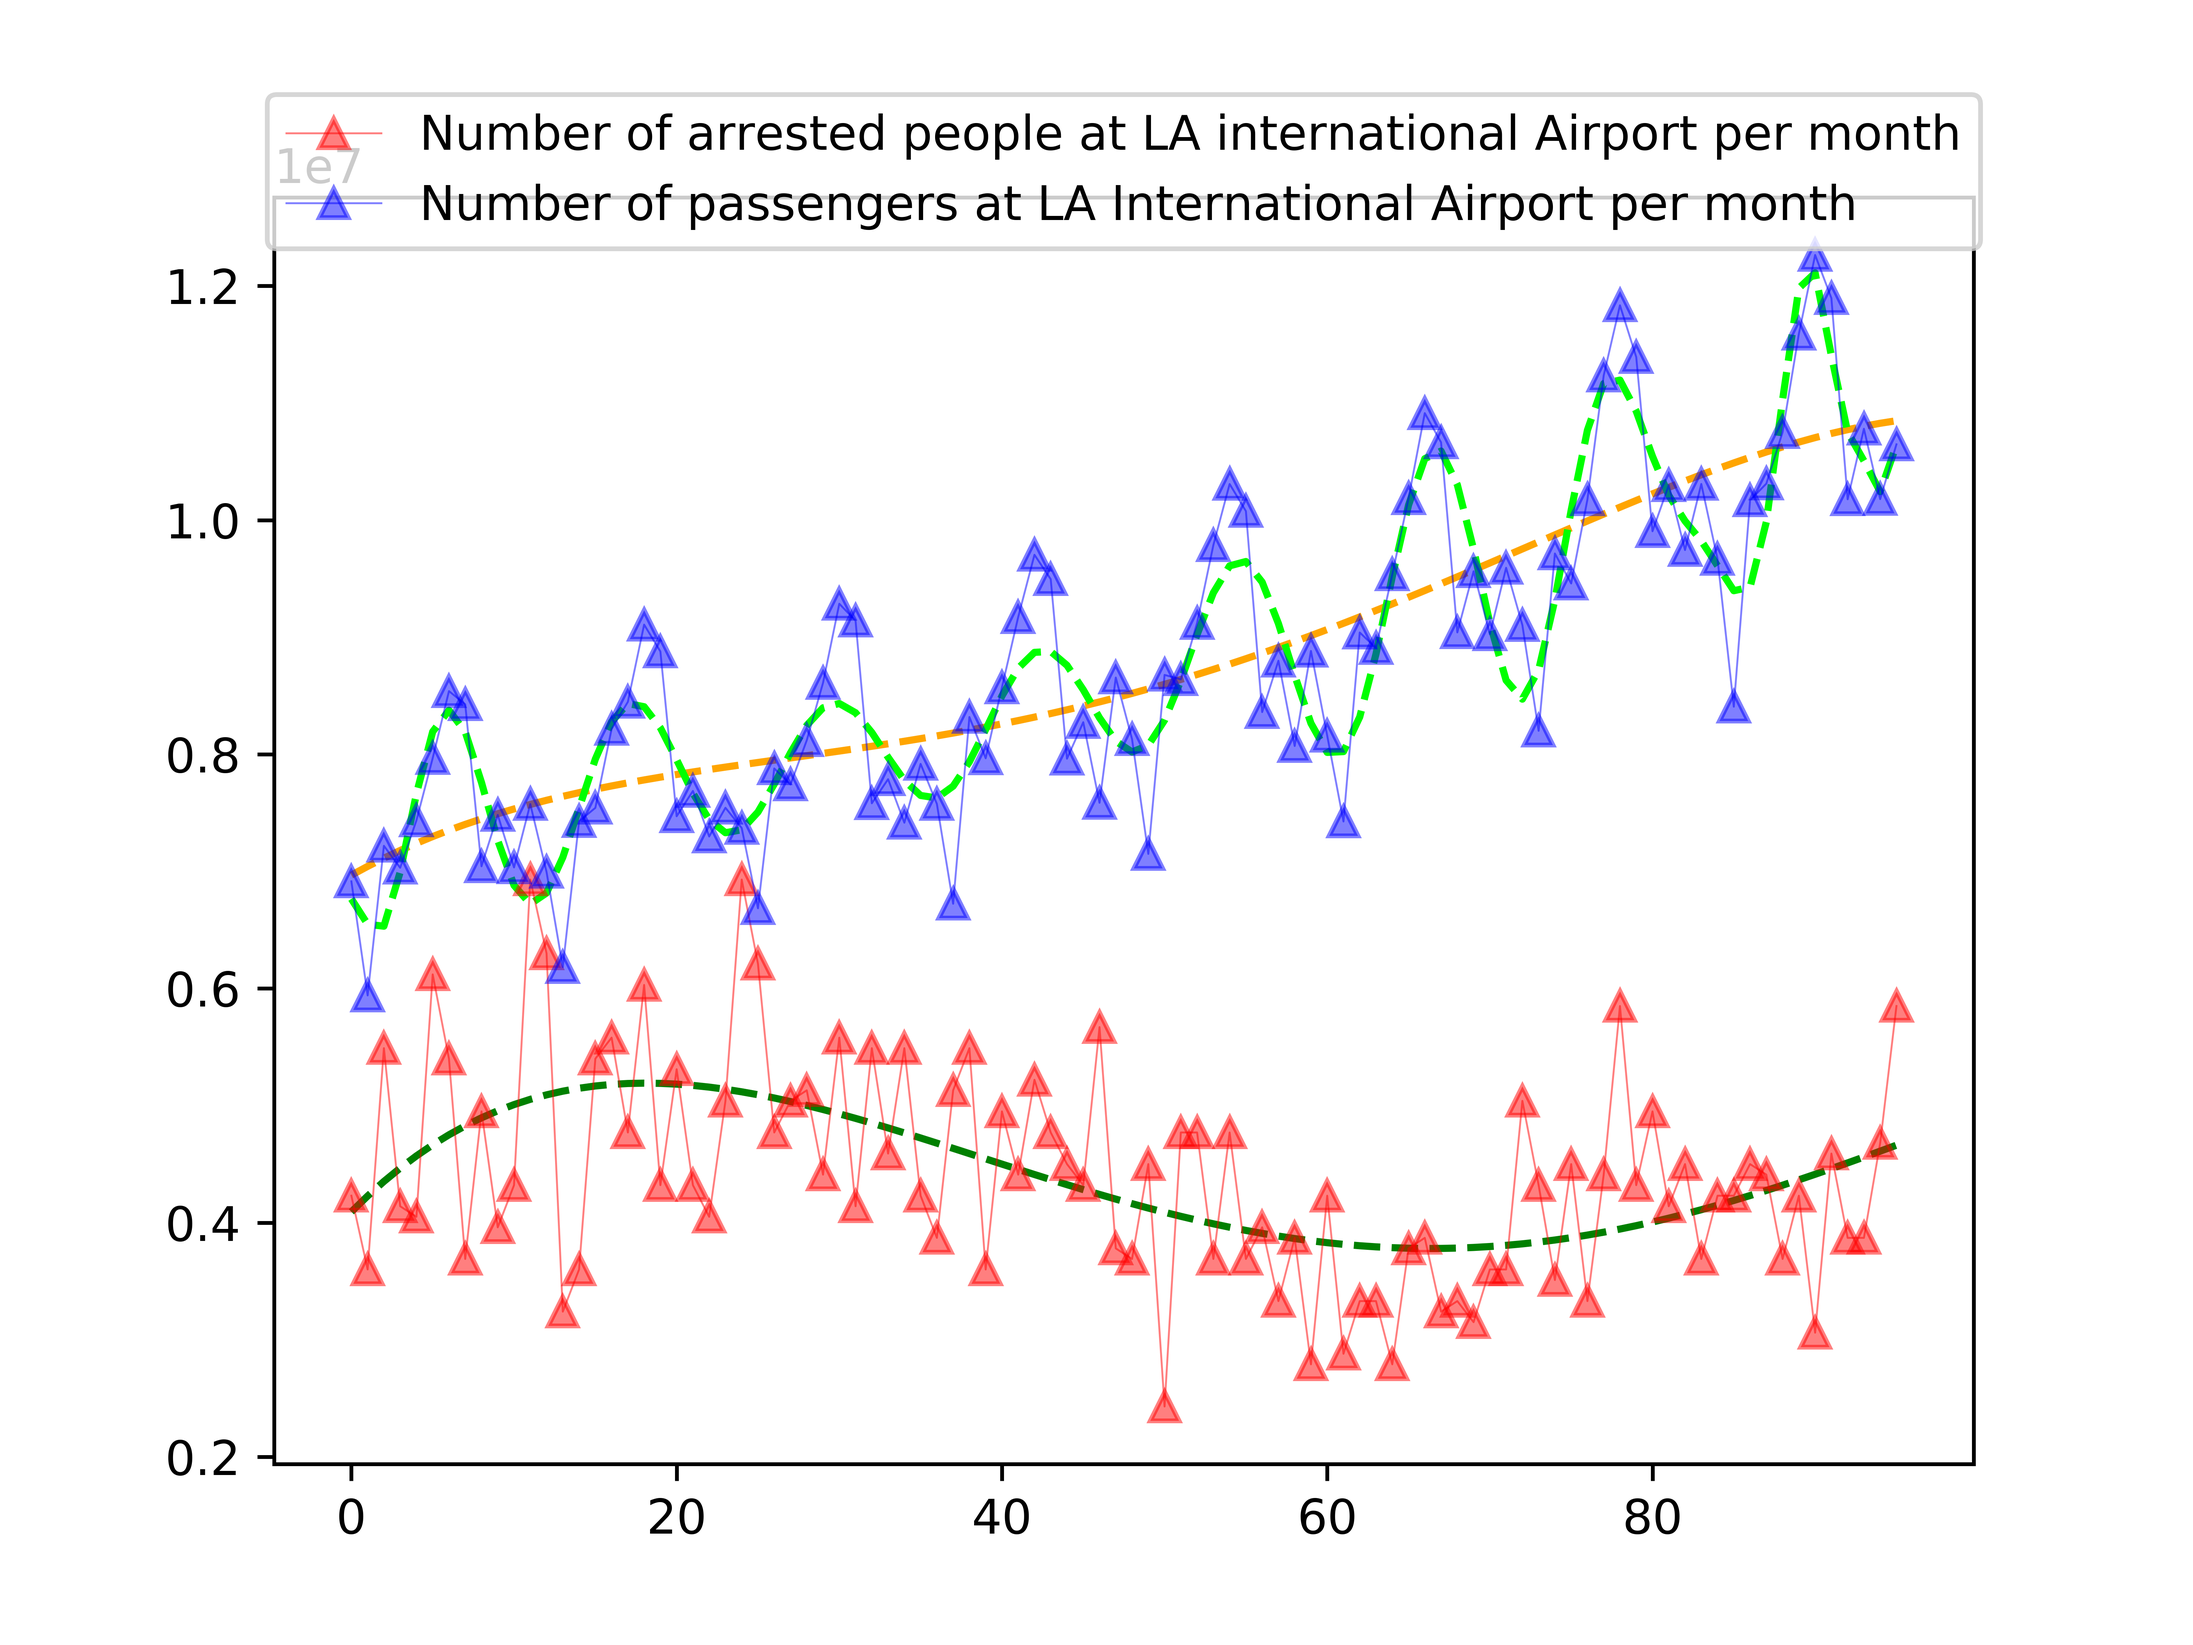
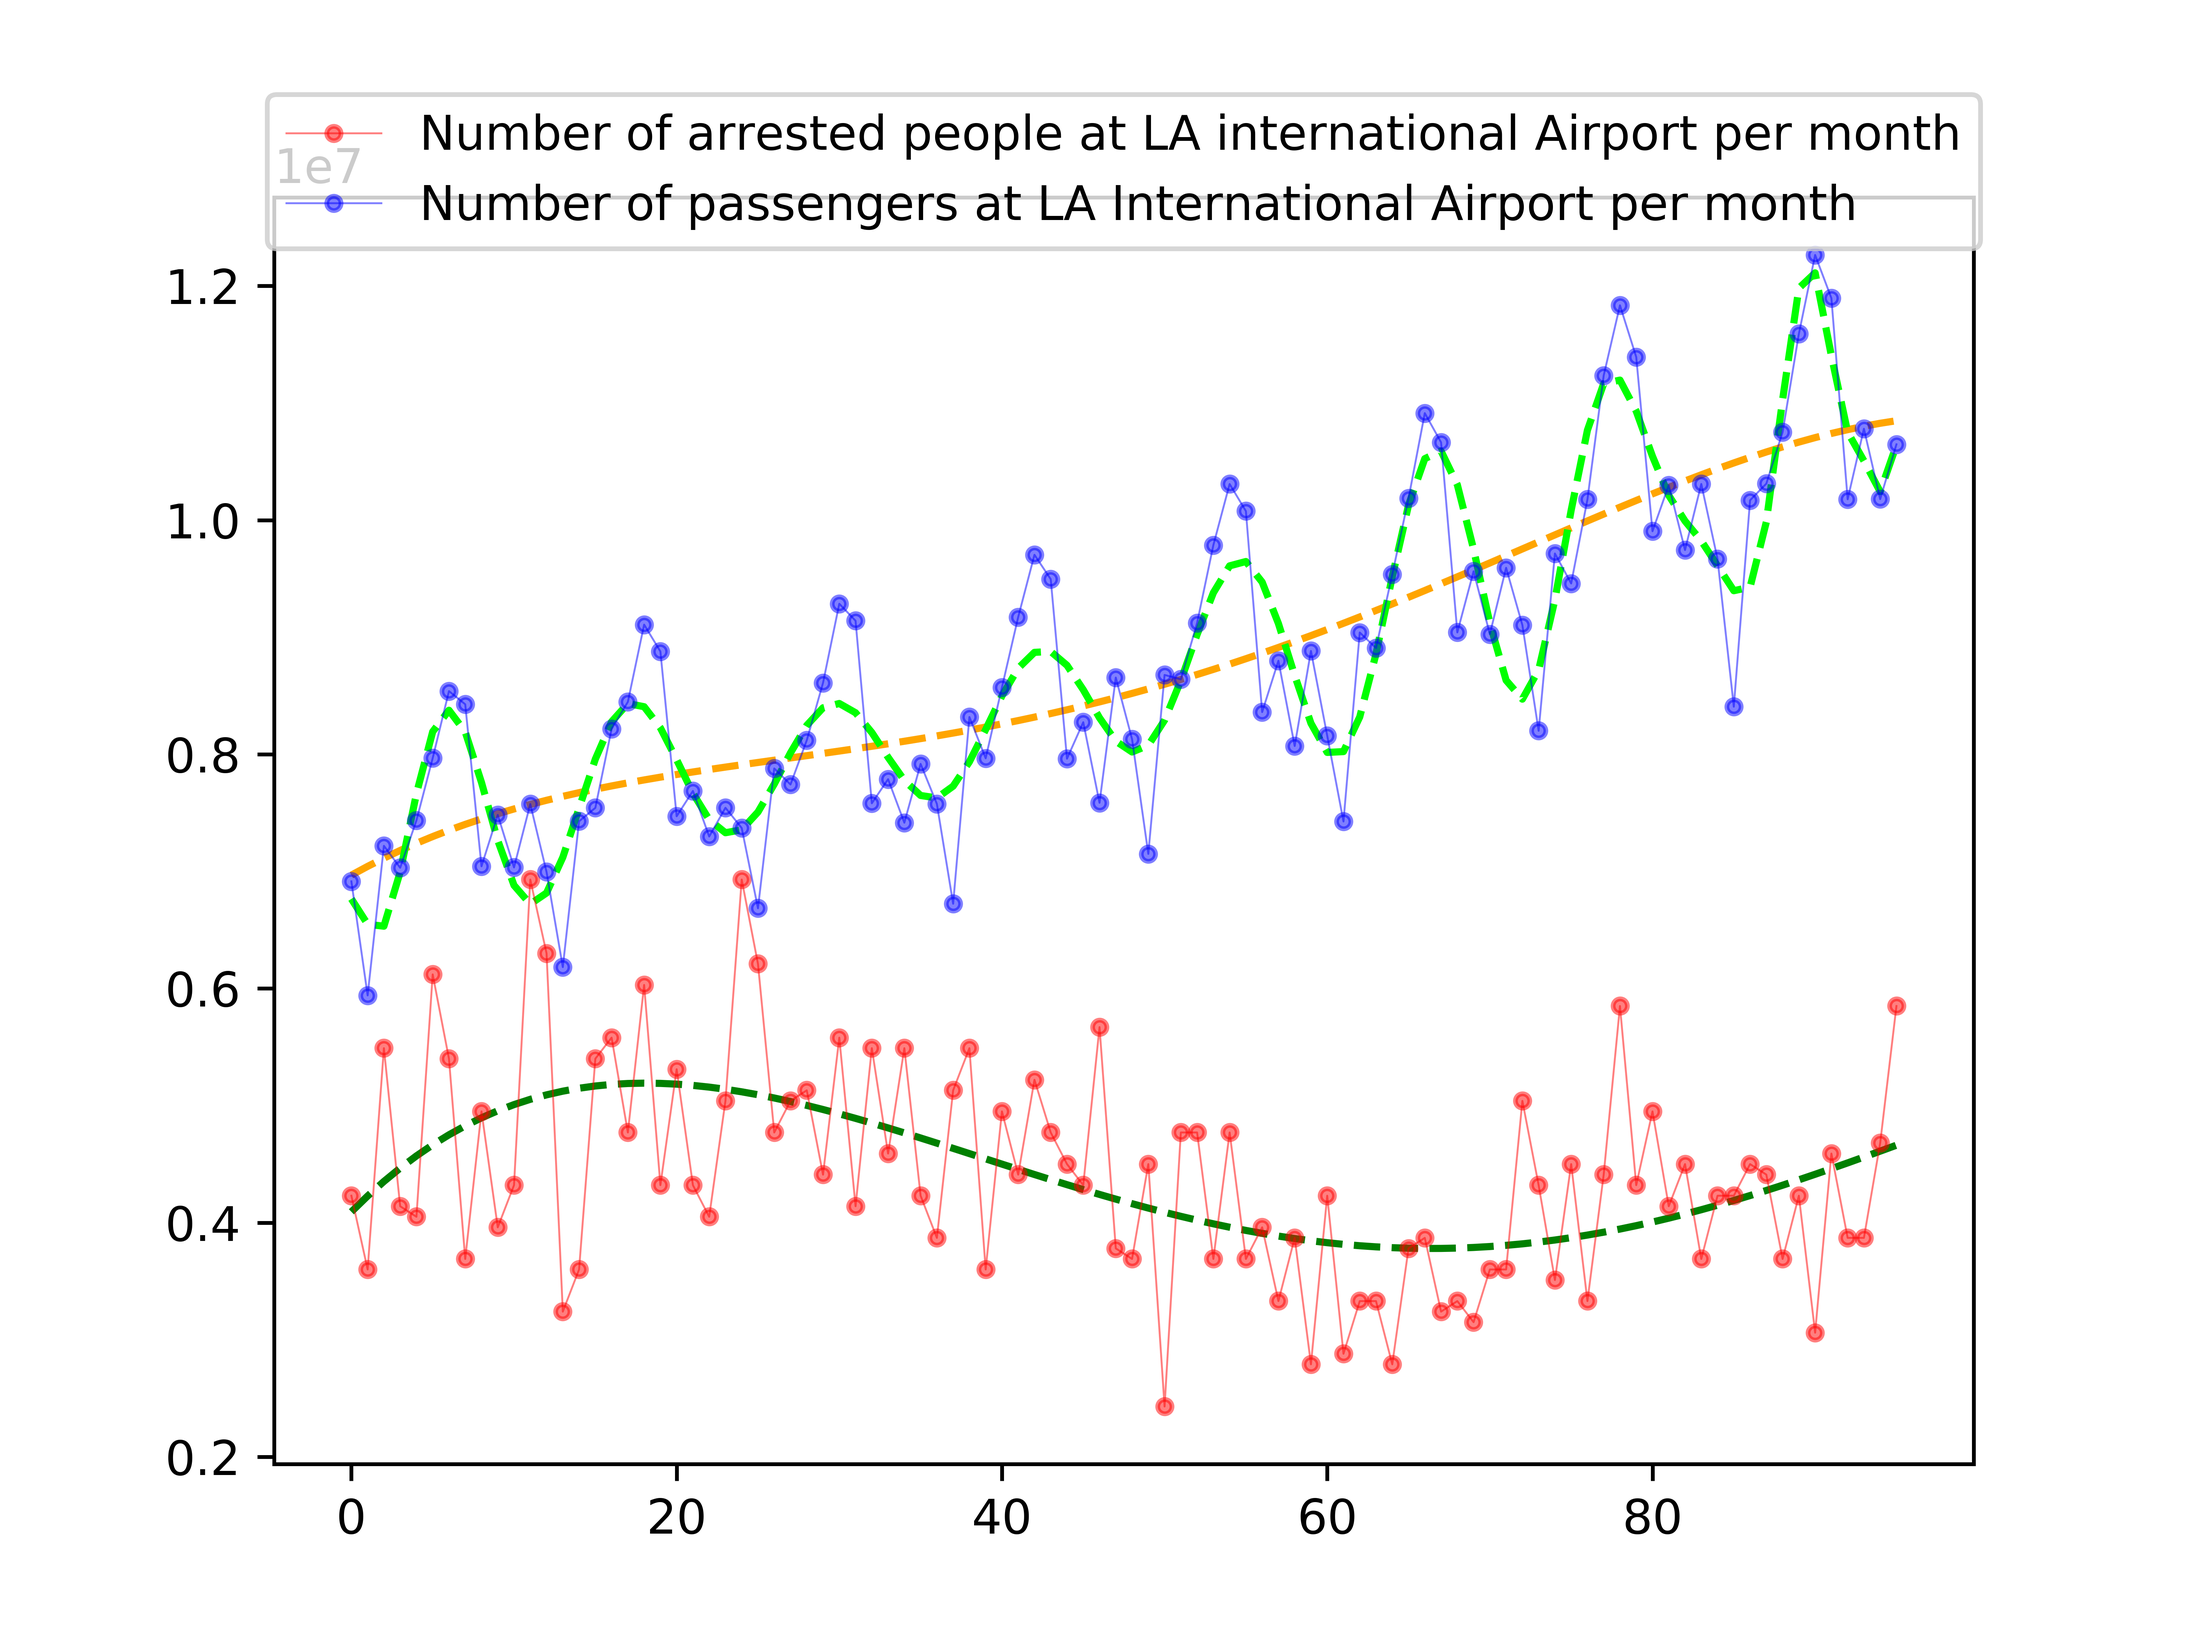
Add files via upload

diff --git a/for_trendline.py b/for_trendline.py
@@ -17,8 +17,8 @@ trendline(xx,yy,'orange',4)
 trendline(x,y,'green',4)
 trendline(xx,yy,'lime',50) #공항이용객
 
-plt.plot(x,y,marker='^',color='r',linewidth=0.4,alpha=0.5,label='Number of arrested people at LA international Airport per month')
-plt.plot(xx,yy,marker='^',color='blue',linewidth=0.4,alpha=0.5,label='Number of passengers at LA International Airport per month',)
+plt.plot(x,y,marker='.',color='r',linewidth=0.4,alpha=0.5,label='Number of arrested people at LA international Airport per month')
+plt.plot(xx,yy,marker='.',color='blue',linewidth=0.4,alpha=0.5,label='Number of passengers at LA International Airport per month',)
 plt.legend(loc='upper center',bbox_to_anchor=(0.5, 1.1))
 plt.savefig('graphwithTline.png',dpi=1000)
 plt.xticks(range(0,96),a,rotation=-20)
